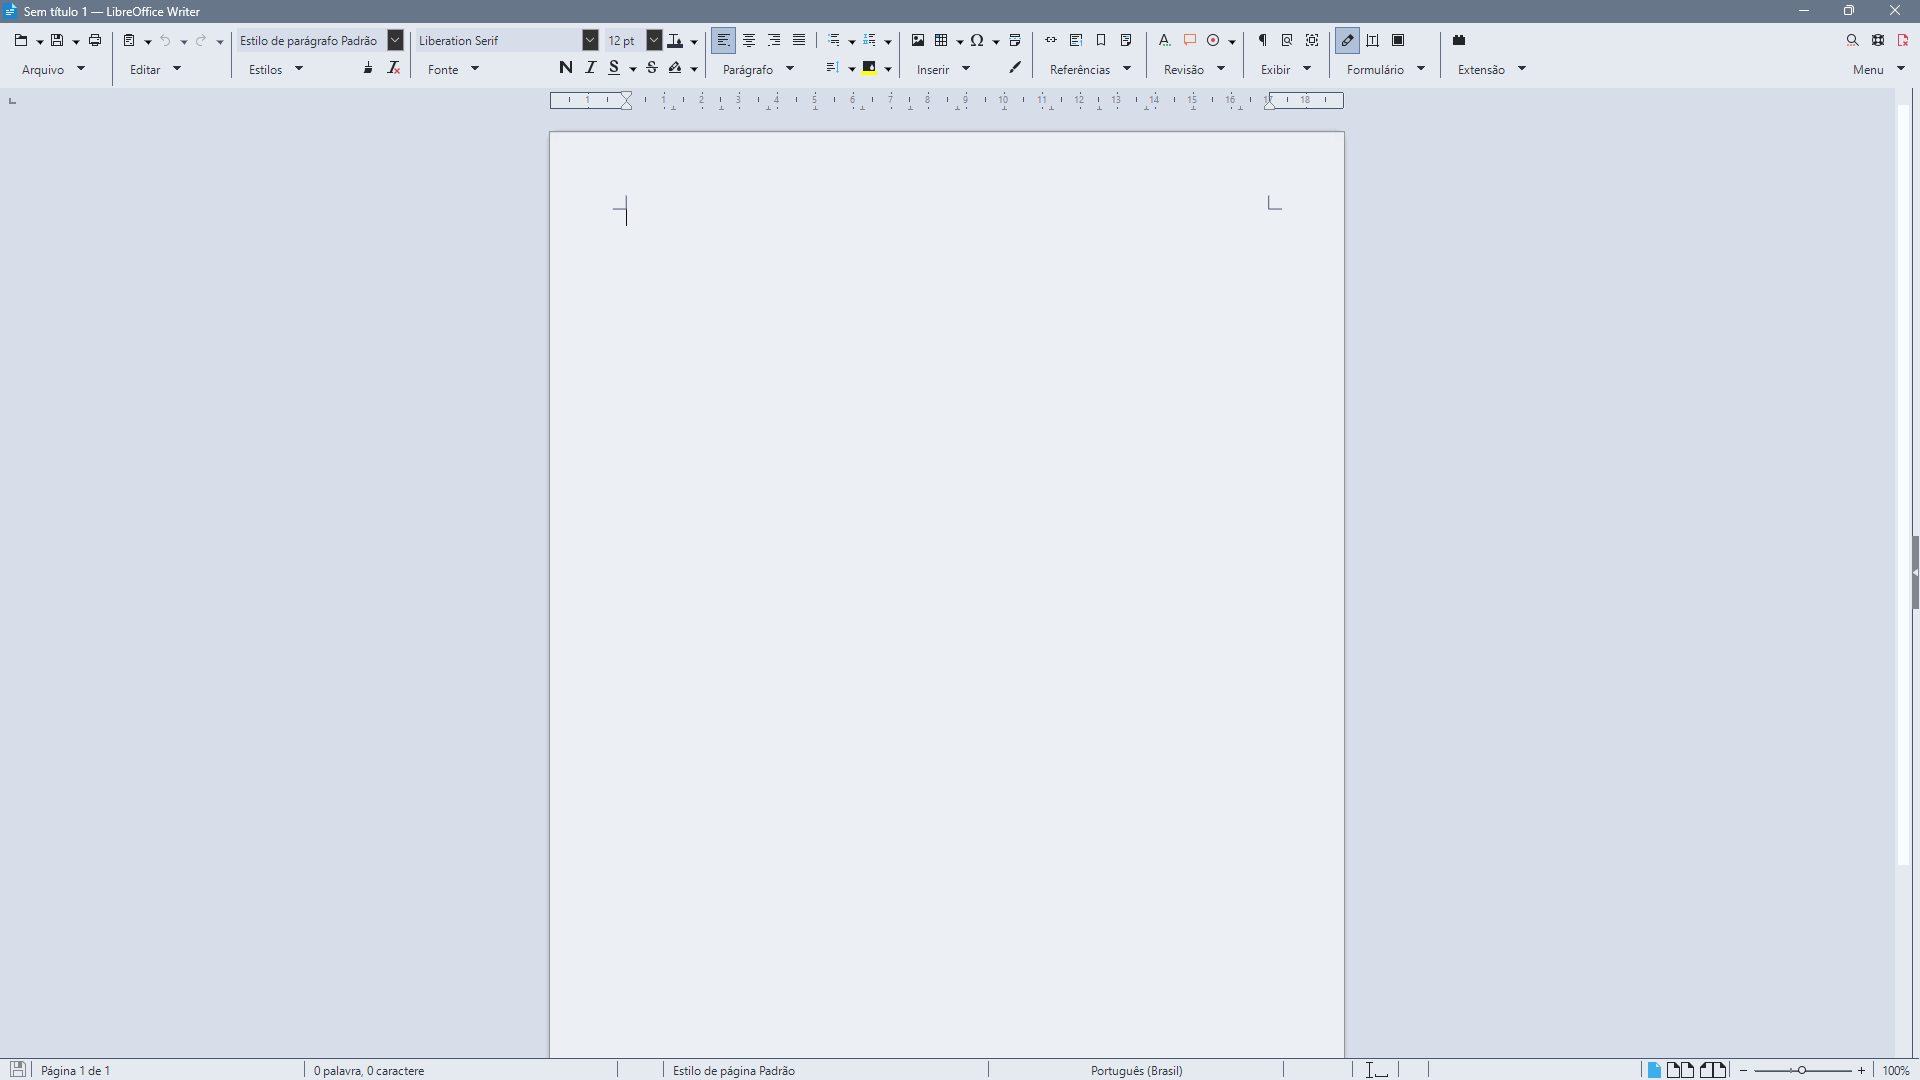
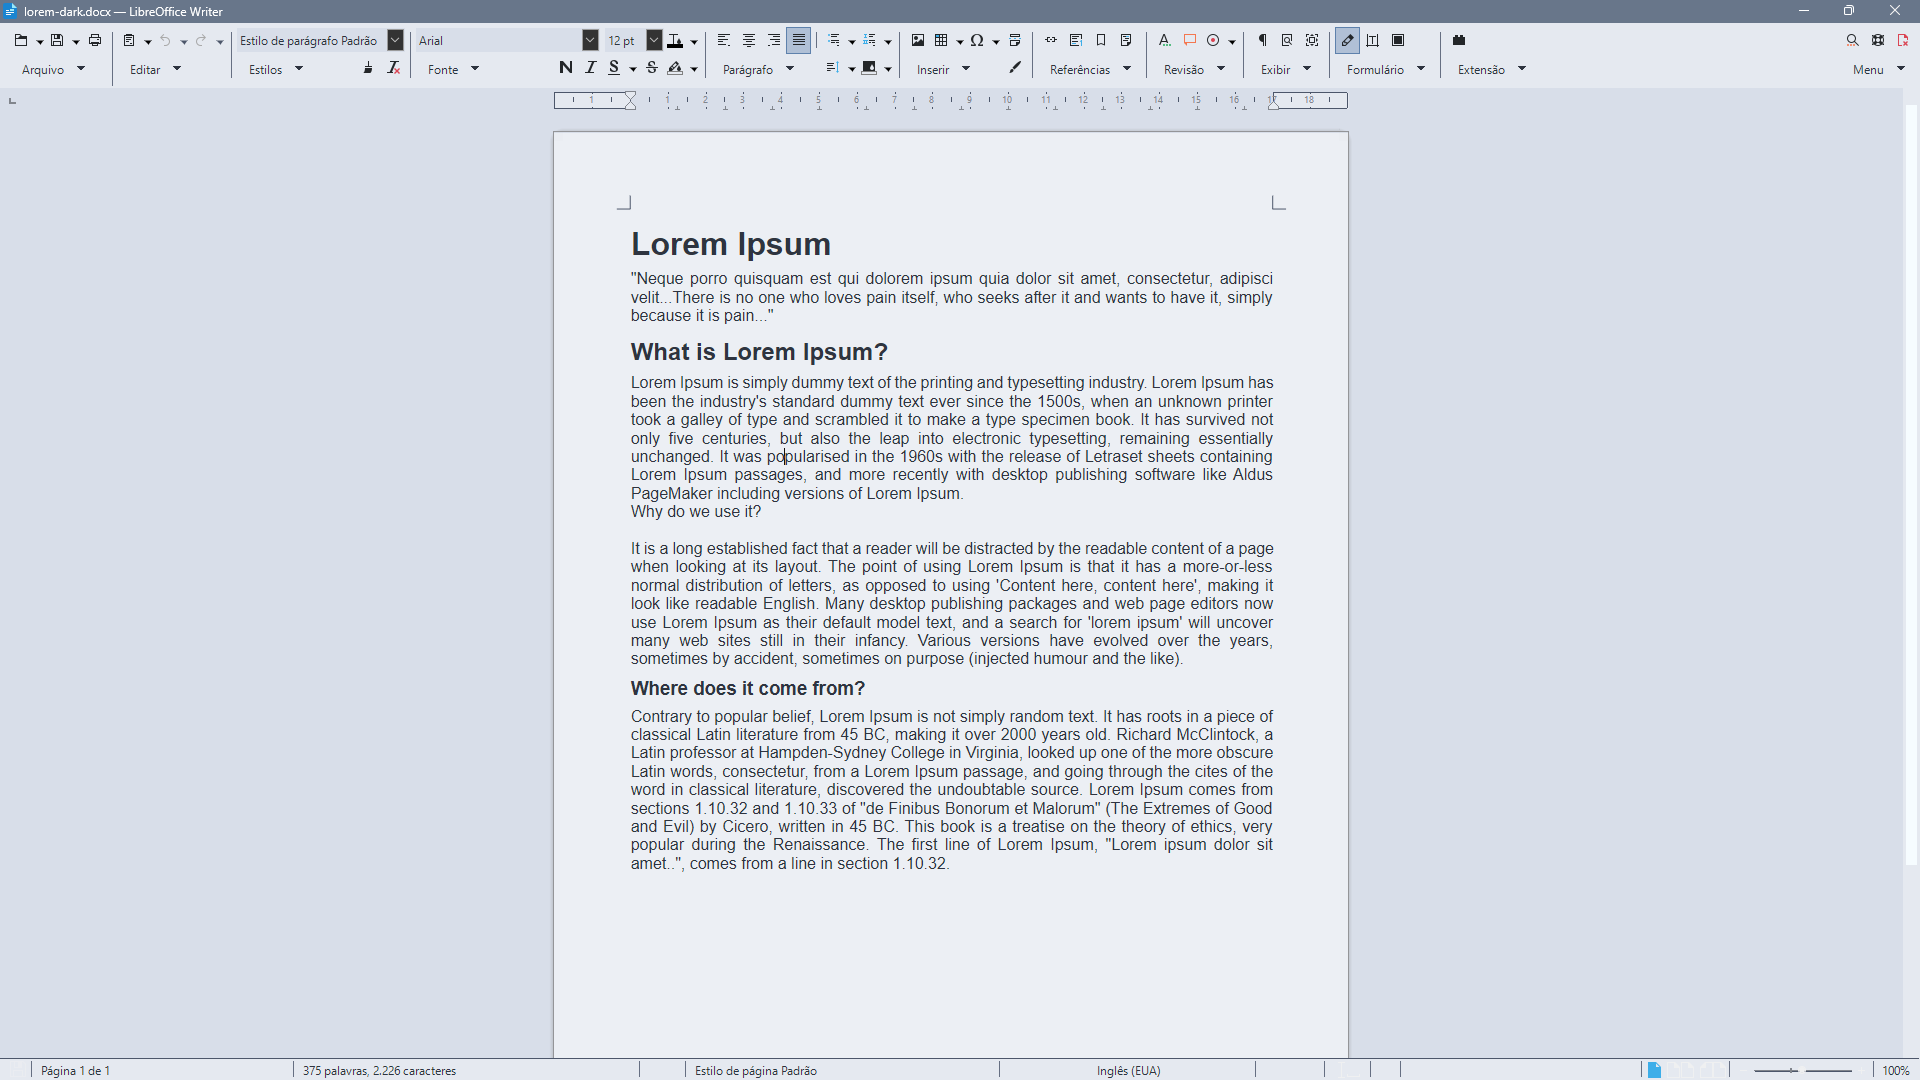
Update README and media assets for Nord Theme Extensions

diff --git a/README.md b/README.md
@@ -1,4 +1,4 @@
-# Nord Theme Extensions for LibreOffice
+![Promotional banner for Nord Theme Extensions for LibreOffice showing LibreOffice themed interface previews on a cool blue Nord color background, with the text Nord Theme Extensions for LibreOffice, creating a calm modern and focused mood](media/hero-banner.png)
 
 > Transform LibreOffice into a modern, elegant, and visually comfortable workspace.
 